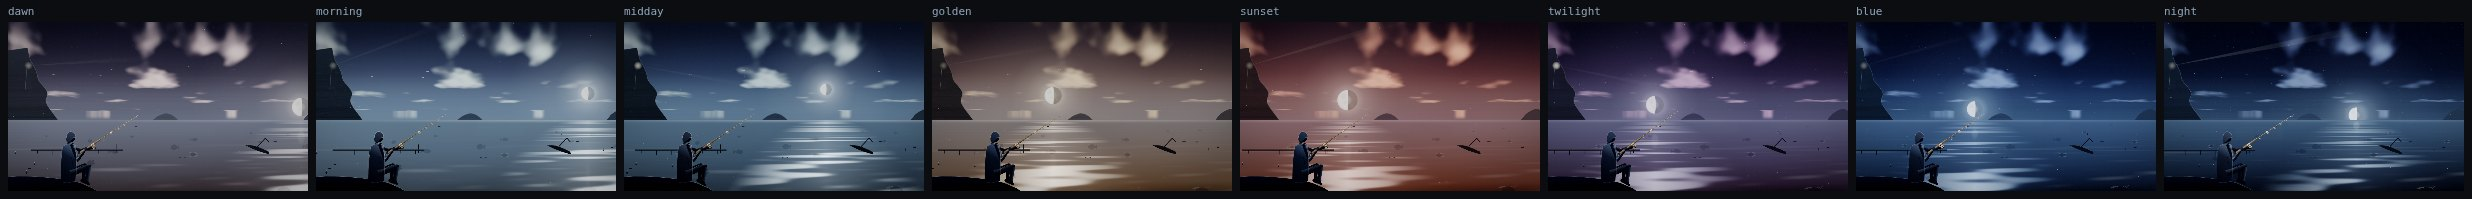
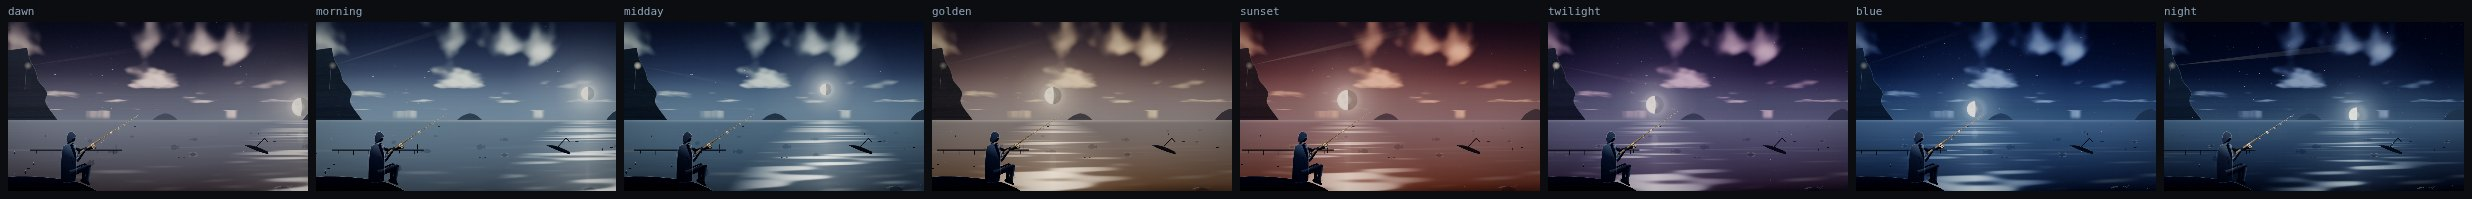
Nine grades, and the Nowhere Sea stops being purple
Every zone ran the same neutral treatment through the post chain, so what
told them apart was still only their palette and their models. Each declares
a grade now — a black point, a highlight tint, saturation, contrast and how
much its lights are allowed to bloom — and they are descriptions of places
rather than moods:

  shore    almost nothing. Cool shadow and warm highlight is what daylight on
           water does by itself; this is the reference the others depart from
  basin    blue shadows, clean white highlight. A moon is white, and grading
           it warm would be a lie the whole zone is built on
  flats    the highest contrast in the game, because a mirror has no midtones
           of its own — what it has is the sky's, twice
  trench   drained and crushed, and bloom held down hard: there is nothing
           down here bright enough to bloom and letting an overcast do it
           would make fog
  abyss    lit from inside the rock, so the highlights carry the crystal's
           colour and the shadows have nothing in them. The one zone where
           bloom is the point — the light sources ARE the geology
  cradle   amber highlights, dust in the blacks, the lowest contrast in the
           game. Nothing here is crisp any more
  beneath  true black, no lift. A lifted black says there is air between you
           and it, and there is not
  heavens  the only place graded UP. Bright, low contrast, almost no black in
[…]

diff --git a/js/data/locations.js b/js/data/locations.js
@@ -46,7 +46,13 @@
          cloud not far up, and weather allowed to do whatever it likes to it.
          This is the reference the other eight are different FROM. */
       air: { sky: 'open', water: 'open', elev: 0.26, disc: 0.030,
-             cloud: 0.34, cloudY: 0.30 },
+             cloud: 0.34, cloudY: 0.30,
+             /* Neutral, and deliberately the least graded place in the game.
+                Cool in the shadows and warm at the top is what daylight on
+                water does on its own; this is the reference the other eight
+                are graded AWAY from, so it gets almost nothing. */
+             grade: { sat: 1.03, con: 1.06, lift: [0.004, 0.010, 0.022],
+                      gain: [1.02, 1.00, 0.97], bloom: 1.0 } },
       weather: ['clear', 'overcast', 'rain', 'fog'],
       music: { root: 55, scale: [0, 3, 5, 7, 10], tempo: 0.16, pad: 0.5 } },
 
@@ -66,7 +72,12 @@
          the angular size of anything else in the game, because the whole
          zone is built around its reflection. */
       air: { sky: 'open', water: 'open', elev: 0.52, disc: 0.062,
-             cloud: 0.10, wxCloud: 0.55, cloudY: 0.52, zen: '#05080f' },
+             cloud: 0.10, wxCloud: 0.55, cloudY: 0.52, zen: '#05080f',
+             /* One light and nothing else, so the shadows go blue and stay
+                there and the highlight is left clean — a moon is white and
+                grading it warm would be a lie the whole zone is built on. */
+             grade: { sat: 1.00, con: 1.10, lift: [0.000, 0.008, 0.030],
+                      gain: [0.98, 1.00, 1.03], bloom: 1.25, thresh: 0.92 } },
       weather: ['clear', 'overcast', 'rain', 'fog', 'meteor'],
       music: { root: 53, scale: [0, 2, 3, 7, 9], tempo: 0.14, pad: 0.6 } },
 
@@ -87,7 +98,12 @@
          slow, and the sky reads as enormous. */
       air: { sky: 'open', water: 'mirror', elev: 0.40, disc: 0.036,
              cloud: 0.16, cloudY: 0.72, zen: '#050d14',
-             bed: '#5e7a72', cloudTint: '#cfeee8' },
+             bed: '#5e7a72', cloudTint: '#cfeee8',
+             /* Glass: hard, clean, faintly cold, and the highest contrast in
+                the game because a mirror has no midtones of its own — what it
+                has is the sky's, twice. */
+             grade: { sat: 0.98, con: 1.16, lift: [0.000, 0.006, 0.008],
+                      gain: [0.97, 1.01, 1.01], bloom: 1.1, thresh: 0.96 } },
       weather: ['clear', 'fog', 'aurora', 'meteor', 'overcast'],
       music: { root: 57, scale: [0, 2, 4, 7, 11], tempo: 0.12, pad: 0.7 } },
 
@@ -107,7 +123,14 @@
          water is gone well before the horizon is. That is the sensation of
          depth done with air rather than with a darker blue. */
       air: { sky: 'open', water: 'swell', elev: 0.18, disc: 0.022,
-             cloud: 0.72, cloudY: 0.22, zen: '#04070c', cloudTint: '#5d7080' },
+             cloud: 0.72, cloudY: 0.22, zen: '#04070c', cloudTint: '#5d7080',
+             /* Crushed and drained. Weather sits on this place; a photograph
+                of it would have no colour in it worth the name and a very
+                long way between the darkest thing and the lightest. Bloom is
+                held down hard — there is nothing down here bright enough to
+                bloom and letting the overcast do it would make fog. */
+             grade: { sat: 0.86, con: 1.20, lift: [0.000, 0.004, 0.010],
+                      gain: [0.96, 0.99, 1.02], bloom: 0.45, thresh: 1.25 } },
       weather: ['overcast', 'rain', 'storm', 'fog', 'eclipse'],
       music: { root: 48, scale: [0, 1, 5, 7, 8], tempo: 0.10, pad: 0.8 } },
 
@@ -126,7 +149,13 @@
          the underside of the roof near the water. No deck, no body, and the
          weather is not admitted at all. */
       air: { sky: 'closed', water: 'open', elev: 0.55, disc: 0.0,
-             cloud: 0, wxCloud: 0, zen: '#0a0618' },
+             cloud: 0, wxCloud: 0, zen: '#0a0618',
+             /* Lit from inside the rock rather than from a sky, so the
+                highlights carry the crystal's colour and the shadows have
+                nothing in them at all. The one zone where bloom is the point:
+                the light sources ARE the geology. */
+             grade: { sat: 1.08, con: 1.12, lift: [0.006, 0.000, 0.014],
+                      gain: [1.04, 0.98, 1.06], bloom: 1.6, thresh: 0.82 } },
       weather: ['clear', 'fog', 'aurora', 'eclipse', 'meteor'],
       music: { root: 50, scale: [0, 3, 5, 6, 10], tempo: 0.11, pad: 0.85 } },
 
@@ -144,7 +173,12 @@
          drawn over this by the zone layer; what the air does is make the space
          read as INSIDE, which is the half a painted ring cannot do on its own. */
       air: { sky: 'closed', water: 'open', elev: 0.62, disc: 0.0,
-             cloud: 0, wxCloud: 0.25, zen: '#080a1c' },
+             cloud: 0, wxCloud: 0.25, zen: '#080a1c',
+             /* Old, and lit by something that has been on for four hundred
+                years. Amber in the highlights, dust in the blacks, and the
+                lowest contrast in the game — nothing here is crisp any more. */
+             grade: { sat: 0.94, con: 0.98, lift: [0.020, 0.016, 0.010],
+                      gain: [1.05, 1.00, 0.93], bloom: 0.9, thresh: 1.0 } },
       weather: ['clear', 'aurora', 'meteor', 'eclipse', 'storm'],
       music: { root: 52, scale: [0, 2, 5, 7, 9], tempo: 0.13, pad: 0.75 } },
 
@@ -155,15 +189,33 @@
       desc: 'You arrived here. You cannot describe the journey. The water is fine and the fishing is excellent.',
       hint: 'The charts stop. The water does not.',
       rarityBoost: 3.10, valueBoost: 3.40, xpBoost: 36.0, biteBoost: 0.90,
-      sky: ['#08060f', '#1a1030'], water: ['#100a24', '#020106'], glow: '#9f7fff',
-      fog: '#1c1236', fogAmt: 0.55, stars: 0.68, starTint: '#d8c8ff',
+      /* NOT PURPLE. It was: a violet sky over violet water under a violet
+         light, and the result was a screensaver — the one visual note this
+         zone had was a hue, and a hue is the cheapest way there is to say
+         "strange". The colours are nearly neutral now and very slightly sick,
+         and the wrongness is carried by the LIGHT instead: an unbounded sky
+         that never converges, three landmarks that are the same object, and a
+         grade whose shadows are warm and whose highlights are cold — which is
+         the reverse of every daylit scene on Earth, and which the eye reads
+         as wrong before it can say why. */
+      sky: ['#0a0c0b', '#181e1a'], water: ['#0e1412', '#020403'], glow: '#c2cabc',
+      fog: '#141a17', fogAmt: 0.55, stars: 0.68, starTint: '#dfe6d8',
       horizon: 'tear', silhouette: 'none', depth: 0.55, void: 0.74,
       /* Unbounded: the dome does not converge and the aerial perspective is
          switched off entirely, so nothing about the air tells you how far away
          anything is. Every other place in the game hands you distance for
          free. This one refuses, and that refusal is the zone. */
       air: { sky: 'unbounded', water: 'open', elev: 0.44, disc: 0.0,
-             cloud: 0.22, wxCloud: 0.40, cloudY: 0.90, zen: '#06040d' },
+             cloud: 0.22, wxCloud: 0.40, cloudY: 0.90, zen: '#06040d',
+             /* Split-toned the wrong way round. Every natural scene on Earth
+                has warm light and cool shadow, because the sun is warm and
+                the shadows are lit by the sky; this has cool light and warm
+                shadow, which no daylight does and which the eye reads as
+                wrong before it can say why. That is the whole grade — NOT
+                purple, which is what this zone kept being given and what made
+                it look like a screensaver rather than a place. */
+             grade: { sat: 0.78, con: 1.10, lift: [0.030, 0.016, 0.000],
+                      gain: [0.93, 0.99, 1.06], bloom: 0.8, thresh: 1.05 } },
       weather: ['fog', 'eclipse', 'voidsurge', 'storm', 'aurora'],
       music: { root: 46, scale: [0, 1, 3, 7, 8], tempo: 0.08, pad: 0.95 } },
 
@@ -183,7 +235,13 @@
          mirrors the wrong way up. Every visual habit the other eight places
          built is broken here on purpose. */
       air: { sky: 'inverted', water: 'still', elev: 0.05, disc: 0.090,
-             cloud: 0, wxCloud: 0, zen: '#000000', bed: '#0d0424' },
+             cloud: 0, wxCloud: 0, zen: '#000000', bed: '#0d0424',
+             /* Almost no colour and almost no light, and one thing that is
+                bright. The blacks are true black — nothing is lifted, because
+                a lifted black says there is air between you and it and there
+                is not. */
+             grade: { sat: 0.82, con: 1.24, lift: [0.000, 0.000, 0.000],
+                      gain: [1.00, 0.96, 1.04], bloom: 1.5, thresh: 0.80 } },
       weather: ['voidsurge', 'eclipse', 'fog'],
       music: { root: 43, scale: [0, 1, 4, 6, 7], tempo: 0.06, pad: 1.0 } }
   ];

diff --git a/js/data/secrets.js b/js/data/secrets.js
@@ -99,7 +99,14 @@
            thing up here. Nothing else in the game is lit from this high. */
         air: { sky: 'unbounded', water: 'mirror', elev: 0.78, disc: 0.115,
                cloud: 0.06, wxCloud: 0.20, cloudY: 1.10,
-               zen: '#160c26', bed: '#efe0bc', cloudTint: '#ffeccc' },
+               zen: '#160c26', bed: '#efe0bc', cloudTint: '#ffeccc',
+               /* High key: the only place in the game graded UP. Bright,
+                  low contrast, almost no black in the frame at all, which is
+                  what being above the weather actually looks like and is the
+                  opposite of every other water here. */
+               grade: { ev: 0.22, sat: 1.02, con: 0.92,
+                        lift: [0.045, 0.040, 0.032], gain: [1.02, 1.00, 0.98],
+                        bloom: 1.35, thresh: 0.88 } },
         music: { root: 60, scale: [0, 4, 7, 9, 11], tempo: 0.15, pad: 0.55 } },
       found: 'water lying on top of the cloud, with nothing under it but weather.',
       test: function () { return false; } },
